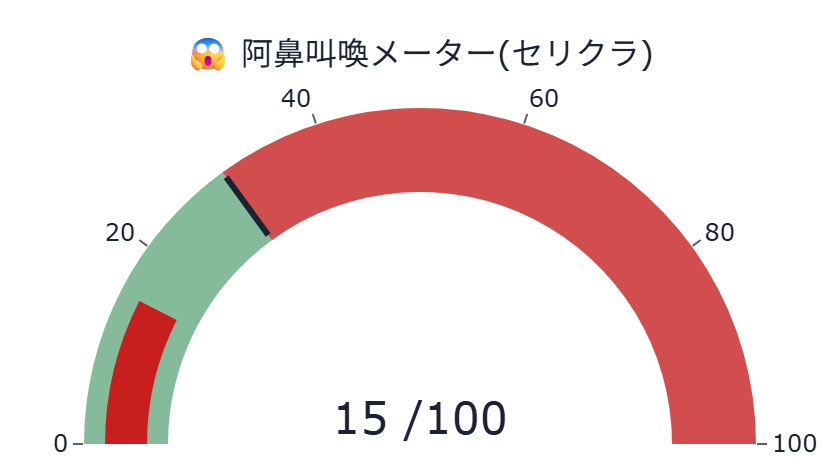
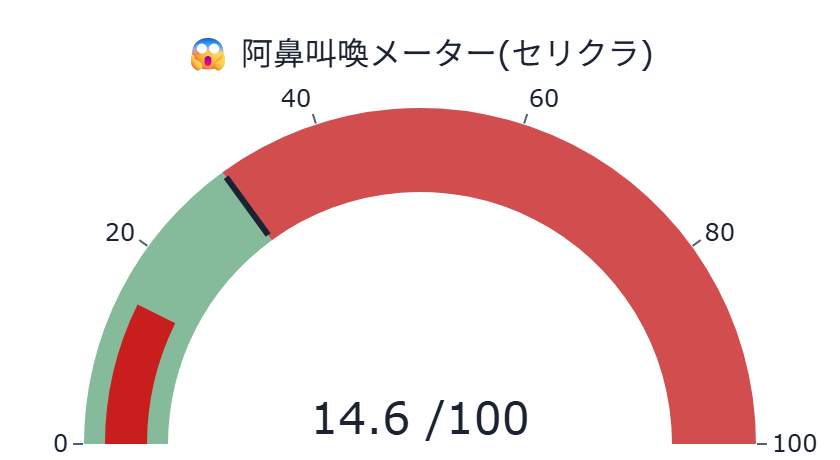
auto: refresh static dashboard (2026-08-25 04:05:21 JST)

Changed region(s): [[0.3714, 0.8522, 0.65, 0.9739], [0.1857, 0.6696, 0.2167, 0.7], [0.1548, 0.6391, 0.1857, 0.6696]]

diff --git a/docs/index.html b/docs/index.html
@@ -86,7 +86,7 @@
         <span class="price">50,930円</span>
         <span class="chg" style="color:#8B94A3">—</span>
       </div>
-      <p class="caption">更新時刻: 2026-08-25T03:54:39（データは1分間隔で自動生成され、このページも
+      <p class="caption">更新時刻: 2026-08-25T04:04:22（データは1分間隔で自動生成され、このページも
       60秒毎に自動再読み込みされます）</p>
       
       <p id='visit-count-badge' class='caption' style='display:none'></p>
@@ -105,7 +105,7 @@
           <h3>ボラ・レジーム帯</h3>
           <figure><img src='images/regime_band.png' alt='ボラ・レジーム帯' loading='lazy'></figure>
           <p class='caption'>現在レジーム: 較正中　(BVP=0.18)</p>
-          <div class='metric-row'><div class='metric-card'><div class='metric-label'>PTS（08/25 00:47）</div><div class='metric-value'>49,830円</div><div class='metric-delta' style='color:#1D4ED8'>-2.16%</div></div><div class='metric-card'><div class='metric-label'>米国ADR（08/25 04:01）</div><div class='metric-value'>50,334円</div><div class='metric-delta' style='color:#1D4ED8'>-1.17%</div></div></div><p class='caption'>PTS=東証取引時間外の私設取引システム／ADR=米国預託証券。翌営業日の値動きの参考情報です(それ自体が売買シグナルではありません)。</p>
+          <div class='metric-row'><div class='metric-card'><div class='metric-label'>PTS（08/25 00:47）</div><div class='metric-value'>49,830円</div><div class='metric-delta' style='color:#1D4ED8'>-2.16%</div></div><div class='metric-card'><div class='metric-label'>米国ADR（08/25 04:04）</div><div class='metric-value'>50,190円</div><div class='metric-delta' style='color:#1D4ED8'>-1.45%</div></div></div><p class='caption'>PTS=東証取引時間外の私設取引システム／ADR=米国預託証券。翌営業日の値動きの参考情報です(それ自体が売買シグナルではありません)。</p>
         </div>
       </div>
 
@@ -118,8 +118,8 @@
 <div class='signal-row'><div class='signal-name'>イナゴ語彙(euphoria)<div class='signal-desc'>「爆上げ」「握力」等、熱狂・便乗を示す語彙が投稿にどれだけ含まれるか。</div></div><div class='signal-note'>euphoria指数1.7/100投稿</div><div><span style='display:inline-block;border-radius:999px;padding:2px 10px;font-size:.82em;font-weight:600;color:#fff;background:#15803D;white-space:nowrap'>OK (現在値1.70 / 閾値&gt;=5.5/100投稿)</span></div></div>
 <div class='signal-row'><div class='signal-name'>ネームド集中<div class='signal-desc'>特定の常連投稿者(ハッシュ化ID)に投稿が偏っていないか(少数の声が目立ちすぎていないか)。</div></div><div class='signal-note'>上位5人シェア11%</div><div><span style='display:inline-block;border-radius:999px;padding:2px 10px;font-size:.82em;font-weight:600;color:#fff;background:#C81E1E;white-space:nowrap'>発火 (現在値0.11 / 閾値&gt;=0.1)</span></div></div>
 <div class='signal-row'><div class='signal-name'>他銘柄混入率<div class='signal-desc'>本銘柄の掲示板で他の銘柄コードへの言及がどれだけ多いか(関心が他へ移りつつあるサイン)。</div></div><div class='signal-note'>他銘柄言及15% (関心離散のサイン)</div><div><span style='display:inline-block;border-radius:999px;padding:2px 10px;font-size:.82em;font-weight:600;color:#fff;background:#C81E1E;white-space:nowrap'>発火 (現在値0.15 / 閾値&gt;=0.11)</span></div></div>
-<div class='signal-row'><div class='signal-name'>暴落煽り語彙<div class='signal-desc'>「暴落」「終わった」等、悲観・煽りを示す語彙が投稿にどれだけ含まれるか。</div></div><div class='signal-note'>煽り指数3.4/100投稿</div><div><span style='display:inline-block;border-radius:999px;padding:2px 10px;font-size:.82em;font-weight:600;color:#fff;background:#15803D;white-space:nowrap'>OK (現在値3.40 / 閾値&gt;=5.0/100投稿)</span></div></div>
-<div class='signal-row'><div class='signal-name'>阿鼻叫喚(セリクラ)<div class='signal-desc'>株価が安値圏にある中で悲観語彙が急増しているか(セリングクライマックスの兆候)。</div></div><div class='signal-note'>阿鼻叫喚スコア15.0 安値圏外</div><div><span style='display:inline-block;border-radius:999px;padding:2px 10px;font-size:.82em;font-weight:600;color:#fff;background:#15803D;white-space:nowrap'>OK (現在値15.00 / 閾値&gt;30)</span></div></div>
+<div class='signal-row'><div class='signal-name'>暴落煽り語彙<div class='signal-desc'>「暴落」「終わった」等、悲観・煽りを示す語彙が投稿にどれだけ含まれるか。</div></div><div class='signal-note'>煽り指数3.3/100投稿</div><div><span style='display:inline-block;border-radius:999px;padding:2px 10px;font-size:.82em;font-weight:600;color:#fff;background:#15803D;white-space:nowrap'>OK (現在値3.30 / 閾値&gt;=5.0/100投稿)</span></div></div>
+<div class='signal-row'><div class='signal-name'>阿鼻叫喚(セリクラ)<div class='signal-desc'>株価が安値圏にある中で悲観語彙が急増しているか(セリングクライマックスの兆候)。</div></div><div class='signal-note'>阿鼻叫喚スコア14.6 安値圏外</div><div><span style='display:inline-block;border-radius:999px;padding:2px 10px;font-size:.82em;font-weight:600;color:#fff;background:#15803D;white-space:nowrap'>OK (現在値14.60 / 閾値&gt;30)</span></div></div>
 <div class='signal-row'><div class='signal-name'>話題枯れ<div class='signal-desc'>過去の平均と比べて本日の投稿数が著しく少ないか(閑散・関心低下のサイン)。</div></div><div class='signal-note'>投稿数z=-1.3 (負=閑散)</div><div><span style='display:inline-block;border-radius:999px;padding:2px 10px;font-size:.82em;font-weight:600;color:#fff;background:#C81E1E;white-space:nowrap'>発火 (現在値-1.30 / 閾値z&lt;-1)</span></div></div>
 <div class='signal-row'><div class='signal-name'>投稿サージ<div class='signal-desc'>過去の平均と比べて本日の投稿数が著しく多いか(急な注目集中のサイン)。</div></div><div class='signal-note'>投稿数z=-1.3 (量→ボラ予測が文献の主結果)</div><div><span style='display:inline-block;border-radius:999px;padding:2px 10px;font-size:.82em;font-weight:600;color:#fff;background:#15803D;white-space:nowrap'>OK (現在値-1.30 / 閾値z&gt;2)</span></div></div></div>
       <p class="caption">※研究・エンタメ用途・未検証。売買シグナルではありません。
@@ -150,24 +150,22 @@
       
 
       <h2>🤖 AI考察</h2>
-      <div class='metric-row'><div class='metric-card'><div class='metric-label'>株価</div><div class='metric-value'>50,930円</div><div class='metric-delta'>+0円</div></div><div class='metric-card'><div class='metric-label'>強気比率</div><div class='metric-value'>36.1%</div><div class='metric-delta'>-0.3pt</div></div><div class='metric-card'><div class='metric-label'>弱気比率</div><div class='metric-value'>54.5%</div><div class='metric-delta'>+0.0pt</div></div></div><p class='caption'>前回集計(2026-08-25T03:44:07)との比較</p>
-      <div class='ai-box'>本レポートは、掲示板の集計センチメントデータに基づく分析であり、投資助言ではありません。<br>
+      <div class='metric-row'><div class='metric-card'><div class='metric-label'>株価</div><div class='metric-value'>50,930円</div><div class='metric-delta'>+0円</div></div><div class='metric-card'><div class='metric-label'>強気比率</div><div class='metric-value'>35.7%</div><div class='metric-delta'>-0.4pt</div></div><div class='metric-card'><div class='metric-label'>弱気比率</div><div class='metric-value'>55.0%</div><div class='metric-delta'>+0.5pt</div></div></div><p class='caption'>前回集計(2026-08-25T03:54:39)との比較</p>
+      <div class='ai-box'>本資料は掲示板の集計センチメントデータに基づく分析であり、投資助言ではありません。<br>
 <br>
-キオクシアホールディングス（285A）について、寄り付き前の現時点における掲示板のセンチメント状況をまとめます。前営業日の終値は50,930.0円となっており、直近の日次推移を見ると、8月17日以降の価格変動に伴い、強気・弱気の比率が大きく推移していることが確認できます。<br>
+キオクシアホールディングス（285A）について、寄り付き前の現時点における掲示板のセンチメント状況をまとめます。前営業日の終値は50,930円となっており、直近の日次推移を見ると、8月17日以降の価格変動に伴い強気・弱気の比率が大きく推移していることが確認できます。<br>
 <br>
-掲示板の集計数値では、強気比率が36.1％に対し、弱気比率が54.5％となっており、相対的に弱気な見方が優勢な状況です。前回の集計（約10分前）と比較すると、価格は変わらず、強気比率は0.3ポイント低下し、投稿数は9件増加しており、短時間での大きな変化は見られません。<br>
+本日の掲示板集計では、投稿数は479件（投稿速度：119.8/時）となっており、強気比率は35.7％、弱気比率は55.0％と、弱気の姿勢が優勢な傾向にあります。前回の集計時点と比較すると、価格は変わらず、強気比率がマイナス0.4ポイント、弱気比率がプラス0.5ポイントと微減・微増しており、短時間でのセンチメントの推移は緩やかです。<br>
 <br>
-ボラティリティのレジーム帯については「calibrating（較正中）」となっており、現在のボラティリティ指標（BVP=0.18）に基づいた安定的な推移を評価する段階にあります。過熱度スコアは7.1、総悲観度スコアは15.0と低水準にあり、統計的な過熱感や極端な阿鼻叫喚といった反応は見られません。<br>
+ボラティリティ指標（BVP）については0.18であり、現在のレジームは「calibrating（較正中）」となっています。これは現在、ボラティリティの安定した評価が行われている段階であることを示しています。また、過熱度スコアは7.1、総悲観度スコアは14.6となっており、統計的な過熱感や極端な悲観状態を示す数値には至っていません。<br>
 <br>
-一方で、9指標のシグナル発火状況にはいくつかの特徴が見られます。「ネームド集中」および「他銘柄混入率」が発火しており、特定のユーザーへの関心の偏りや、他銘柄への関心離散の兆候が統計的に示されています。また、前回取引日からの状態変化として、これら2つの指標に加え、「話題枯れ」もOKから発火へと移行しています。これは掲示板内での活発な議論が一時的に停滞している可能性を示唆する数値です。<br>
+シグナル発火状況については、いくつかの指標で注意を要する動きが見られます。「ネームド集中」および「他銘柄混入率」の2項目において「発火」が確認されており、特定の層への関心の偏りや、話題の拡散・離散の兆候が統計的に示されています。また、前回取引日からの状態変化として、「ネームド集中」「他銘柄混入率」「話題枯れ」の3指標で「発火」へと移行しており、掲示板内での議論の構造に変化が生じていることが伺えます。<br>
 <br>
-なお、東証の取引時間外における動きを確認すると、PTSでは前日終値比で-2.16％（49,830.0円）、米国ADRは-1.59％（50,118.0円）となっており、寄り付きに向けた参考情報として付随しています。<br>
-<br>
-総じて、掲示板上では弱気なセンチメントが一定数存在しつつも、話題の停滞や関心の分散といった統計的な偏りが一部で見られる状態にあります。</div><p class='caption'>生成時刻: 2026-08-25T03:54:39</p>
+なお、東証取引時間外の動きについては、PTSでは前日終値比マイナス2.16％、米国ADR（円換算）ではマイナス1.23％となっており、寄り付きに向けた参考情報として把握しておく必要があります。</div><p class='caption'>生成時刻: 2026-08-25T04:04:22</p>
 
       <hr style="border:none;border-top:1px solid var(--border);margin:2rem 0 1rem">
       <p class="caption">⚠ 本情報は掲示板投稿を統計的に集計したものであり、投資助言ではありません。個別の投稿内容は含まれていません。研究・エンタメ用途です。</p>
-      <footer>生成: generate_static_dashboard.py（2026-08-25T04:04:24） /
+      <footer>生成: generate_static_dashboard.py（2026-08-25T04:05:11） /
       画像バックエンド: plotly+kaleido</footer>
     </div>
     <script>(function(){var url="https://script.google.com/macros/s/AKfycbwgSSGQ2n56ohmIYKlNDA1Xe3D8hd3GJbD0U90L4DGtXdb8pqrPokNMHJWjvN1__7bE/exec";var KEY='bbs_visit_counted';var already=sessionStorage.getItem(KEY);var action=already?'read':'hit';var ctrl=(typeof AbortController!=='undefined')?new AbortController():null;var timer=ctrl?setTimeout(function(){ctrl.abort();},5000):null;fetch(url+'?action='+action,{signal:ctrl?ctrl.signal:undefined}).then(function(r){if(timer)clearTimeout(timer);return r.json();}).then(function(data){if(!already)sessionStorage.setItem(KEY,'1');if(data&&typeof data.count==='number'){var el=document.getElementById('visit-count-badge');if(el){el.textContent='\u{1F440} \u7d2f\u8a08\u95b2\u89a7\u6570: '+data.count.toLocaleString();el.style.display='';}}}).catch(function(e){if(timer)clearTimeout(timer);console.warn('visit counter fetch failed (fail-soft):',e);});})();</script></body></html>
